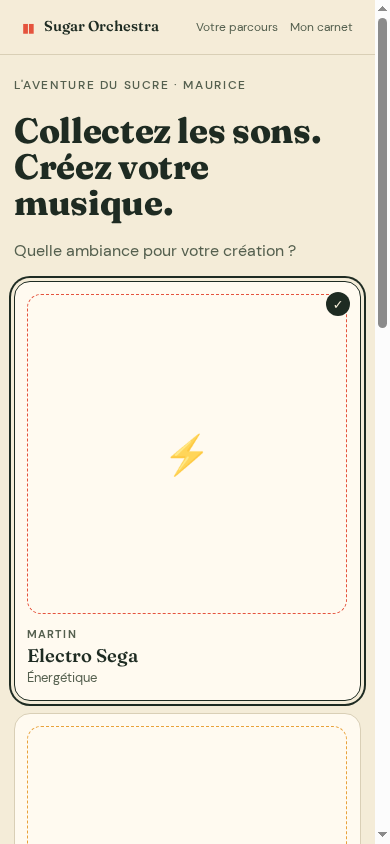
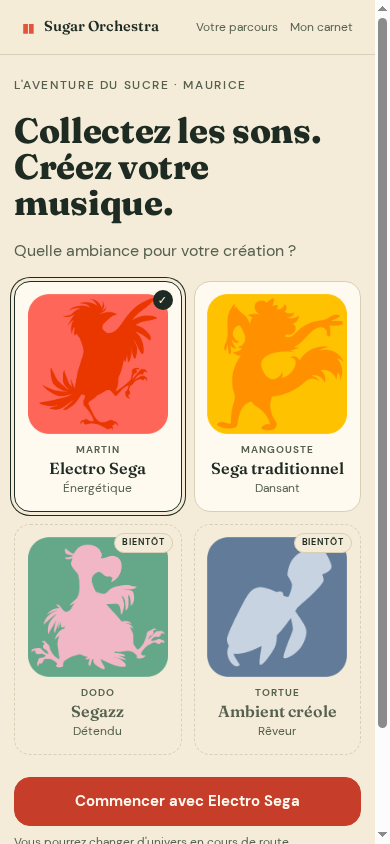
UI mascottes: cartes compactes (248px, illustration 148px), 4 sur une ligne, 2 colonnes tablette/mobile, PNG officiels installés

diff --git a/src/styles.css b/src/styles.css
@@ -145,48 +145,46 @@ ul, ol { margin: 0; padding: 0; list-style: none; }
 
 /* ---------- home ---------- */
 .home { gap: 18px; padding-top: 8px; }
-.uni-grid { display: grid; grid-template-columns: repeat(2, minmax(0, 1fr)); gap: 14px; }
+.uni-grid { display: grid; grid-template-columns: repeat(2, minmax(0, 1fr)); gap: 12px; }
 
-/* ---------- cartes univers / mascottes ---------- */
+/* ---------- cartes univers / mascottes (compactes) ---------- */
 .uni-card {
-  position: relative; display: flex; flex-direction: column; gap: 10px;
-  padding: 12px; text-align: left; border-radius: var(--r);
-  border: 1.5px solid var(--line); background: var(--card); color: var(--ink);
+  position: relative; display: flex; flex-direction: column; align-items: center;
+  gap: 8px; padding: 12px 10px 14px; text-align: center;
+  border-radius: var(--r); border: 1.5px solid var(--line);
+  background: var(--card); color: var(--ink);
   transition: transform .12s ease, box-shadow .18s ease, border-color .15s ease;
 }
-.uni-card:hover:not(:disabled) { transform: translateY(-2px); box-shadow: 0 8px 22px rgba(30, 43, 34, .10); }
-.uni-card.is-active { border-color: var(--ink); box-shadow: 0 0 0 3px var(--paper), 0 0 0 5px var(--ink); }
+.uni-card:hover:not(:disabled) { transform: translateY(-2px); box-shadow: 0 8px 20px rgba(30, 43, 34, .10); }
+.uni-card.is-active { border-color: var(--ink); box-shadow: 0 0 0 3px var(--paper), 0 0 0 4px var(--ink); }
 .uni-card.is-soon { background: transparent; border-style: dashed; border-color: var(--line); color: var(--mut); }
 
-/* L'illustration est l'élément principal. Le ratio 1:1 et `contain` sont
-   imposés ici : une image carrée reste carrée, rien n'est recadré ni étiré. */
+/* L'illustration est plafonnée : elle ne prend jamais la largeur de la carte.
+   ratio 1:1 + contain ⇒ jamais étirée, jamais recadrée, entièrement visible. */
 .uni-figure {
-  display: grid; place-items: center; width: 100%;
-  aspect-ratio: 1 / 1; border-radius: 14px; overflow: hidden; background: transparent;
+  display: grid; place-items: center; width: min(140px, 100%);
+  aspect-ratio: 1 / 1; background: transparent;
 }
 .uni-figure img {
   display: block; width: 100%; height: auto;
   aspect-ratio: 1 / 1; object-fit: contain;
-  /* les visuels fournis sont des carrés arrondis exportés sur fond noir :
-     arrondir le cadre retire cet artefact de coin sans toucher à l'image */
-  border-radius: 14px;
 }
-.uni-figure-empty { border: 1px dashed var(--line); background: transparent; }
-.uni-glyph { font-family: var(--serif); font-size: 2.4rem; line-height: 1; opacity: .75; }
+.uni-figure-empty { border: 1px dashed var(--line); border-radius: 10px; }
+.uni-glyph { font-family: var(--serif); font-size: 1.9rem; line-height: 1; opacity: .7; }
 
-.uni-body { display: grid; gap: 2px; }
-.uni-mascot { font-size: .7rem; font-weight: 700; letter-spacing: .1em; text-transform: uppercase; color: var(--mut); }
-.uni-name { font-family: var(--serif); font-size: 1.15rem; font-weight: 600; line-height: 1.15; }
-.uni-emotion { font-size: .82rem; color: var(--mut); }
-.uni-card.is-soon .uni-figure img { opacity: .7; filter: saturate(.8); }
+.uni-body { display: grid; gap: 1px; justify-items: center; }
+.uni-mascot { font-size: .64rem; font-weight: 700; letter-spacing: .1em; text-transform: uppercase; color: var(--mut); }
+.uni-name { font-family: var(--serif); font-size: 1rem; font-weight: 600; line-height: 1.2; }
+.uni-emotion { font-size: .76rem; color: var(--mut); }
+.uni-card.is-soon .uni-figure img { opacity: .72; filter: saturate(.82); }
 .uni-soon {
-  position: absolute; top: 10px; right: 10px; padding: 3px 8px;
-  font-size: .62rem; font-weight: 700; letter-spacing: .1em; text-transform: uppercase;
+  position: absolute; top: 8px; right: 8px; padding: 2px 7px;
+  font-size: .58rem; font-weight: 700; letter-spacing: .1em; text-transform: uppercase;
   background: var(--paper); color: var(--ink); border: 1px solid var(--line); border-radius: 999px;
 }
 .uni-check {
-  position: absolute; top: 10px; right: 10px; width: 24px; height: 24px; border-radius: 999px;
-  display: grid; place-items: center; font-size: .8rem;
+  position: absolute; top: 8px; right: 8px; width: 20px; height: 20px; border-radius: 999px;
+  display: grid; place-items: center; font-size: .7rem;
   background: var(--ink); color: var(--paper);
 }
 .home-cta { display: grid; gap: 8px; margin-top: 4px; }
@@ -361,15 +359,24 @@ ul, ol { margin: 0; padding: 0; list-style: none; }
 .hint-loud { border: 1.5px solid var(--coral); background: #fdf1ee; color: #8c2a18; border-radius: var(--r-sm); padding: 10px 12px; font-size: .82rem; }
 .hint-loud b { display: block; margin-bottom: 2px; }
 
-/* ---------- mascottes : adaptations ---------- */
-@media (min-width: 900px) {
-  .uni-grid { gap: 18px; }
-  .uni-card { padding: 14px; }
-  .uni-name { font-size: 1.25rem; }
+/* ---------- mascottes : mise en page ---------- */
+@media (min-width: 700px) {
+  .uni-grid { gap: 16px; }
+  .uni-card { padding: 14px 12px 16px; }
+  .uni-name { font-size: 1.05rem; }
 }
-@media (max-width: 619px) {
-  /* une colonne : l'illustration reste grande et la cible tactile confortable */
-  .uni-grid { grid-template-columns: 1fr; gap: 12px; }
-  .uni-figure { max-width: 320px; }
-  .uni-body { padding-top: 2px; }
+@media (min-width: 1100px) {
+  /* les quatre univers sur une seule ligne, cartes ~230-250 px.
+     Le sélecteur doit battre `.route-home .screen` (720 px) défini plus haut. */
+  .route-home .screen.home { max-width: 1040px; }
+  .uni-grid { grid-template-columns: repeat(4, minmax(0, 1fr)); gap: 16px; }
+  .uni-card { padding: 16px 12px 18px; }
+  .uni-figure { width: min(148px, 100%); }
+}
+@media (max-width: 359px) {
+  /* en dessous, deux colonnes ne tiennent plus : une seule, pleine largeur */
+  .uni-grid { grid-template-columns: 1fr; }
+  .uni-card { flex-direction: row; align-items: center; text-align: left; gap: 12px; }
+  .uni-figure { width: 96px; flex: 0 0 96px; }
+  .uni-body { justify-items: start; }
 }

diff --git a/src/engine/universes.ts b/src/engine/universes.ts
@@ -5,7 +5,7 @@ import type { Universe } from '../audio/types'
 export const UNIVERSES: Universe[] = [
   {
     id: 'electro-sega',
-    mascot: { name: 'Martin', files: ['martin-rouge.png', 'Martin Rouge.png'] },
+    mascot: { name: 'Martin', files: ['Martin Rouge.png', 'martin-rouge.png'] },
     name: 'Electro Sega',
     emotion: 'Énergétique',
     style: 'Electro Sega',
@@ -21,7 +21,7 @@ export const UNIVERSES: Universe[] = [
   },
   {
     id: 'sega-trad',
-    mascot: { name: 'Mangouste', files: ['mangouste-jaune.png', 'Mangouste Jaune.png'] },
+    mascot: { name: 'Mangouste', files: ['Mangouste Jaune.png', 'mangouste-jaune.png'] },
     name: 'Sega traditionnel',
     emotion: 'Dansant',
     style: 'Sega traditionnel',
@@ -37,7 +37,7 @@ export const UNIVERSES: Universe[] = [
   },
   {
     id: 'segazz',
-    mascot: { name: 'Dodo', files: ['dodo-vert.png', 'Dodo Vert.png'] },
+    mascot: { name: 'Dodo', files: ['Dodo Vert.png', 'dodo-vert.png'] },
     name: 'Segazz',
     emotion: 'Détendu',
     style: 'Segazz',
@@ -53,7 +53,7 @@ export const UNIVERSES: Universe[] = [
   },
   {
     id: 'ambient-creole',
-    mascot: { name: 'Tortue', files: ['tortue-bleu.png', 'Tortue bleu.png'] },
+    mascot: { name: 'Tortue', files: ['Tortue bleu.png', 'tortue-bleu.png'] },
     name: 'Ambient créole',
     emotion: 'Rêveur',
     style: 'Ambient créole',
